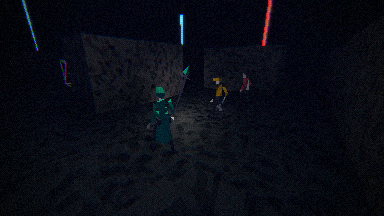
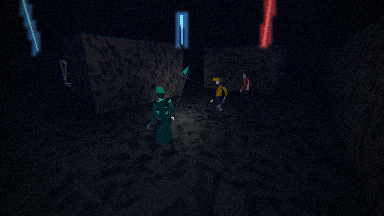
perf(render): custo das camadas A+B de 1,87× para ~1,3× do preset sem camadas
- bloom: máscara emissiva dilatada em 1/4 da resolução interna (16 amostras por texel
  a 1/16 dos fragmentos) e uma leitura com filtro linear no pós
- sombra da lanterna: shadow map redesenhado a render.anim_fps (autoUpdate = false),
  personagens só projetam dentro do frustum da sombra (layer_b.caster_radius), leitura
  com textureLod e só dentro do cone
- Ps1Material: normal de face só no caminho por fragmento (uGouraud < 1)
- compare.mjs: teto de custo render.layer_cost_factor (tempo de CPU do processo de GPU,
  mediana de pares, medium 1280×720); hook bench(view, frames) e capture com hidden
- comentário do schema aponta para render-layers.test.ts

Claude-Session: https://claude.ai/code/session_01RHvzBkpAz1qJUMgUKvPxkx

Changed region(s): [[0.0312, 0.0, 0.125, 0.2778], [0.6562, 0.0, 0.7188, 0.2222], [0.4375, 0.0278, 0.5, 0.2222]]

diff --git a/packages/client/src/render/scene.ts b/packages/client/src/render/scene.ts
@@ -7,7 +7,7 @@ import { balance, cfg, map, px } from "../data.ts";
 import { WORLD_COLORS } from "../look.ts";
 import { createHunterModel, createSurvivorModel } from "./characters/actors.ts";
 import { charactersReady } from "./characters/runtime.ts";
-import { aimLantern, bakeVertexLight, createAmbience, createLantern, neutralBake, type Ambience } from "./environment.ts";
+import { aimLantern, bakeVertexLight, createAmbience, createLantern, cullShadowCasters, neutralBake, type Ambience } from "./environment.ts";
 import { fxTime, onLayersChange, presetLayers, setGrainSeed, setLayers, tickLayers, type LayerSet } from "./layers.ts";
 import { clientRandom, urlPreset } from "./options.ts";
 import { createPresenter, type Presenter } from "./present.ts";
@@ -29,6 +29,10 @@ export interface RenderCtx {
   ambience: Ambience;
   /** pulso de aberração: sobrevivente seguido, vida dele no quadro anterior e instante do último dano (relógio da simulação) */
   fx: { id: number | null; lastHp: number | null; hitT: number | null };
+  /** personagens que podem projetar a sombra da lanterna (o próprio jogador não) */
+  casters: THREE.Object3D[];
+  /** passo (em 1/render.anim_fps) da última atualização do shadow map; NaN força a próxima */
+  shadowStep: number;
   /** `renderer.info` do último quadro (sombra + cena + passes finais) */
   info: { calls: number; triangles: number };
 }
@@ -71,6 +75,8 @@ export function buildWorld(canvas: HTMLCanvasElement): RenderCtx {
   // camada B: sombra da lanterna em shadow map sem filtro (BasicShadowMap: texel nearest, sombra pixelada)
   R.shadowMap.enabled = true;
   R.shadowMap.type = THREE.BasicShadowMap;
+  // o shadow map é redesenhado a render.anim_fps (12 Hz, o passo PS1 da animação), não a cada quadro
+  R.shadowMap.autoUpdate = false;
   setGrainSeed(Math.floor(clientRandom(GRAIN_SALT)() * 65536));
   const presenter = createPresenter(R, canvas, urlPreset);
   const [iw, ih] = rc.presets[presenter.preset].internal;
@@ -101,7 +107,7 @@ export function buildWorld(canvas: HTMLCanvasElement): RenderCtx {
   S.add(lantern, lantern.target);
   const ambience = createAmbience(clientRandom(AMBIENCE_SALT));
   S.add(ambience.group);
-  const ctx: RenderCtx = { R, S, cam, PL, presenter, lantern, baked, ambience, fx: { id: null, lastHp: null, hitT: null }, info: { calls: 0, triangles: 0 } };
+  const ctx: RenderCtx = { R, S, cam, PL, presenter, lantern, baked, ambience, fx: { id: null, lastHp: null, hitT: null }, casters: [], shadowStep: NaN, info: { calls: 0, triangles: 0 } };
   onLayersChange(l => applyLayers(ctx, l));
   setLayers(presetLayers(presenter.preset));
   return ctx;
@@ -112,6 +118,7 @@ function applyLayers(ctx: RenderCtx, l: LayerSet) {
   ctx.lantern.visible = l.B;
   ps1Uniforms.uBake.value = l.B ? 1 : 0;
   ctx.ambience.group.visible = l.C;
+  ctx.shadowStep = NaN;
 }
 
 /** troca o preset de resolução interna (low/medium/high) */
@@ -143,13 +150,18 @@ export function buildActors(ctx: RenderCtx, G: GameState, _skin: string) {
   // camada B: luz assada com as lâmpadas dos geradores desta partida (o layout muda a posição)
   bakeVertexLight(ctx.baked, G.gens);
   ctx.fx = { id: null, lastHp: null, hitT: null };
-  // personagens projetam e recebem a sombra da lanterna; o próprio jogador não (a lanterna sai do corpo dele)
+  // personagens recebem a sombra da lanterna e projetam quando estão no cone (cullShadowCasters); o próprio
+  // jogador não projeta (a lanterna sai do corpo dele)
   const own = meshes.get("s" + G.survivors[0].id);
+  ctx.casters = [];
+  ctx.shadowStep = NaN;
   void charactersReady().then(() => {
     for (const s of G.survivors.map(v => meshes.get("s" + v.id)).concat(hm)) {
-      if (!s || s === own) continue;
-      s.traverse(o => { if ((o as THREE.Mesh).isMesh) o.castShadow = o.receiveShadow = true; });
+      if (!s) continue;
+      s.traverse(o => { if ((o as THREE.Mesh).isMesh) o.receiveShadow = true; });
+      if (s !== own) ctx.casters.push(s);
     }
+    ctx.shadowStep = NaN;
   });
 }
 
@@ -167,6 +179,13 @@ export function renderFrame(ctx: RenderCtx, G: GameState, view: { yaw: number; p
   cam.rotation.set(pitch - (thirdPerson ? 0.2 : 0), yaw, 0);
   PL.position.set(P.x, rc.lights.player_height, P.z);
   aimLantern(ctx.lantern, cam, P.x, P.z);
+  // camada B: shadow map a render.anim_fps no relógio da simulação, só com os projetores dentro do cone
+  const shadowStep = Math.floor(fxTime(G.t) * rc.anim_fps);
+  if (ctx.lantern.visible && shadowStep !== ctx.shadowStep) {
+    cullShadowCasters(ctx.lantern, ctx.casters);
+    ctx.R.shadowMap.needsUpdate = true;
+    ctx.shadowStep = shadowStep;
+  }
   // camada A: pulso de aberração quando a vida do jogador cai; grão e camada C no relógio da simulação
   // só o dano do mesmo sobrevivente conta: trocar o alvo da câmera (modo espectador) não dispara o pulso
   if (ctx.fx.id === P.id && ctx.fx.lastHp !== null && P.hp < ctx.fx.lastHp) ctx.fx.hitT = G.t;

diff --git a/packages/client/src/render/present.ts b/packages/client/src/render/present.ts
@@ -3,7 +3,7 @@
 // quantização para `render.ps1.color_bits` por canal com intensidade `render.ps1.dither`; um quad final leva o
 // resultado à tela com escala inteira (filtro nearest) e as scanlines.
 // Camada A (GDD-v0.3 §10.2, itens do GDD-v0.2 §10.2), na ordem: aberração cromática (pulso de dano), bloom só nos
-// emissivos (máscara no alfa do alvo; passe próprio em meia resolução interna), LUT fria (textura 3D), vinheta e grão, ANTES da quantização (o dither
+// emissivos (máscara no alfa do alvo, dilatada em 1/4 da resolução interna e lida uma vez), LUT fria (textura 3D), vinheta e grão, ANTES da quantização (o dither
 // absorve o grão). As scanlines ficam no quad final: com escala ≥ 2 escurecem a última linha de tela de cada linha
 // interna (o vão entre linhas de um CRT é menor que um pixel interno); com escala 1, linhas internas alternadas.
 // O pós na resolução interna custa o mesmo em qualquer janela (SwiftShader e GPU integrada).
@@ -20,32 +20,27 @@ varying vec2 vUv;
 void main() { vUv = uv; gl_Position = vec4( position.xy, 0.0, 1.0 ); }
 `;
 
-/** bloom em meia resolução interna (o brilho é suave: 1/4 dos fragmentos do passe de pós) */
+/**
+ * bloom, passo 1: máscara emissiva em 1/4 da resolução interna (1/16 dos fragmentos). Cada texel guarda o máximo
+ * por canal da cor dos pixels emissivos (alfa 0) em 16 amostras de uma janela de 4 + 2·BLOOM_R pixels internos em
+ * volta do seu bloco 4×4: dilata feixes de 1 pixel em vez de diluí-los. O passo 2 lê a máscara uma vez, com
+ * filtro linear, e a interpolação entre texels dá a borda suave
+ */
 const BLOOM_FRAGMENT = /* glsl */ `
 uniform sampler2D tDiffuse;
 uniform vec2 uRes;
 varying vec2 vUv;
-// brilho dos emissivos: média ponderada da cor dos pixels com alfa 0 em 13 amostras (centro e dois anéis de 6,
-// a meio raio e no raio BLOOM_R, em pixels internos), peso caindo com a distância. 13 amostras em vez do disco
-// cheio: o custo cabe no SwiftShader da CI e em GPU integrada
-vec3 bloom() {
-  vec4 c0 = texture2D( tDiffuse, vUv );
-  vec3 sum = c0.rgb * ( 1.0 - c0.a );
-  float wsum = 1.0;
-  for ( int ring = 1; ring <= 2; ring ++ ) {
-    float r = float( BLOOM_R ) * float( ring ) * 0.5;
-    float w = 1.0 - r / ( float( BLOOM_R ) + 1.0 );
-    for ( int k = 0; k < 6; k ++ ) {
-      // anéis girados meio passo um do outro (ângulos de 60° em 60°)
-      float a = ( float( k ) + 0.5 * float( ring - 1 ) ) * 1.04719755;
-      vec4 c = texture2D( tDiffuse, vUv + vec2( cos( a ), sin( a ) ) * r / uRes );
-      sum += c.rgb * ( 1.0 - c.a ) * w;
-      wsum += w;
-    }
+void main() {
+  vec2 base = floor( vUv * uRes / 4.0 ) * 4.0 + 2.0;   // centro do bloco 4×4 em pixels internos
+  float step = ( 4.0 + 2.0 * float( BLOOM_R ) ) / 4.0;
+  vec3 m = vec3( 0.0 );
+  for ( int y = 0; y < 4; y ++ ) for ( int x = 0; x < 4; x ++ ) {
+    vec2 o = ( vec2( x, y ) - 1.5 ) * step;
+    vec4 c = texture2D( tDiffuse, ( floor( base + o ) + 0.5 ) / uRes );
+    m = max( m, c.rgb * ( 1.0 - c.a ) );
   }
-  return sum / wsum;
+  gl_FragColor = vec4( m, 1.0 );
 }
-void main() { gl_FragColor = vec4( bloom(), 1.0 ); }
 `;
 
 const POST_FRAGMENT = /* glsl */ `
@@ -81,6 +76,7 @@ void main() {
     c.r = texture2D( tDiffuse, vUv + off ).r;
     c.b = texture2D( tDiffuse, vUv - off ).b;
   }
+  // bloom, passo 2: uma leitura com filtro linear da máscara dilatada em 1/4
   if ( uBloom > 0.0 ) c.rgb += texture2D( tBloom, vUv ).rgb * uBloom * uBloomAmount;
   if ( uLut > 0.0 ) {
     vec3 l = texture( tLut, clamp( c.rgb, 0.0, 1.0 ) * ( ( uLutSize - 1.0 ) / uLutSize ) + 0.5 / uLutSize ).rgb;
@@ -166,7 +162,7 @@ export function createPresenter(R: THREE.WebGLRenderer, canvas: HTMLCanvasElemen
       self.preset = name;
       target.setSize(w, h);
       postTarget.setSize(w, h);
-      bloomTarget.setSize(Math.ceil(w / 2), Math.ceil(h / 2));
+      bloomTarget.setSize(Math.ceil(w / 4), Math.ceil(h / 4));
       ps1Uniforms.uRes.value.set(w, h);
       lastKey = "";
     },

diff --git a/packages/client/src/render/debug.ts b/packages/client/src/render/debug.ts
@@ -1,11 +1,12 @@
 // Gancho de depuração da render para as capturas de referência (tools/visual/compare.mjs) e para medir
 // `renderer.info` (GDD-v0.3 §10.6). Só lê o estado; não altera a simulação.
 import type { GameState } from "@thehell/sim";
+import type * as THREE from "three";
 import { balance } from "../data.ts";
 import type { PresetName } from "./present.ts";
 import { getLayerA, getLayers, getReduceFlicker, setLayerA, setLayers, setOverrides, setReduceFlicker, type LayerAIntensity, type LayerSet } from "./layers.ts";
 import { getPs1, setPs1, type Ps1Intensity } from "./ps1.ts";
-import { renderFrame, setPreset, type RenderCtx } from "./scene.ts";
+import { meshes, renderFrame, setPreset, type RenderCtx } from "./scene.ts";
 import { syncActors, syncDynamic } from "./sync.ts";
 
 export interface RenderHook {
@@ -29,8 +30,17 @@ export interface RenderHook {
    * sincroniza as malhas com o estado atual, desenha um quadro com a vista dada e devolve os pixels da tela (RGBA, linhas de cima para baixo) em base64,
    * lidos no mesmo quadro (sem preserveDrawingBuffer)
    */
-  capture(view: { yaw: number; pitch: number; thirdPerson: boolean }): { width: number; height: number; rgba: string };
+  capture(view: View, opts?: CaptureOpts): { width: number; height: number; rgba: string };
+  /**
+   * desenha `frames` quadros com a vista dada, sincronizando a GPU a cada um (readPixels de 1 pixel), para medir o
+   * custo de render de forma síncrona (tools/visual/compare.mjs mede o tempo de fora da página)
+   */
+  bench(view: View, frames: number): void;
 }
+
+type View = { yaw: number; pitch: number; thirdPerson: boolean };
+/** malhas escondidas na captura, por chave de `meshes` (hunter, beam<i>, s<id>…): legibilidade por diferença */
+export interface CaptureOpts { hidden?: string[] }
 
 export function installRenderHook(getCtx: () => RenderCtx | undefined, getGame: () => GameState | undefined) {
   const need = () => {
@@ -48,10 +58,15 @@ export function installRenderHook(getCtx: () => RenderCtx | undefined, getGame: 
       const internal = balance.render.presets[ctx.presenter.preset].internal as [number, number];
       return { ...ctx.info, preset: ctx.presenter.preset, scale: ctx.presenter.scale, internal, layers: getLayers() };
     },
-    capture: view => {
+    capture: (view, opts = {}) => {
       const { ctx, G } = need();
       syncActors(G, view.thirdPerson);
+      const hidden = (opts.hidden ?? []).map(k => meshes.get(k)).filter((m): m is THREE.Object3D => !!m && m.visible);
+      for (const m of hidden) m.visible = false;
+      // a captura independe do histórico: o shadow map é redesenhado para esta vista
+      ctx.shadowStep = NaN;
       renderFrame(ctx, G, view);
+      for (const m of hidden) m.visible = true;
       syncDynamic(ctx, G);
       const gl = ctx.R.getContext();
       const width = gl.drawingBufferWidth, height = gl.drawingBufferHeight;
@@ -62,6 +77,18 @@ export function installRenderHook(getCtx: () => RenderCtx | undefined, getGame: 
       let bin = "";
       for (let i = 0; i < flipped.length; i += 0x8000) bin += String.fromCharCode(...flipped.subarray(i, i + 0x8000));
       return { width, height, rgba: btoa(bin) };
+    },
+    bench: (view, frames) => {
+      const { ctx, G } = need();
+      syncActors(G, view.thirdPerson);
+      const gl = ctx.R.getContext(), px = new Uint8Array(4);
+      // relógio parado: o shadow map é redesenhado como num jogo a render.budgets.fps, a render.anim_fps
+      const { fps } = balance.render.budgets, hz = balance.render.anim_fps;
+      for (let i = 0; i < frames; i++) {
+        if (Math.floor((i * hz) / fps) !== Math.floor(((i - 1) * hz) / fps)) ctx.shadowStep = NaN;
+        renderFrame(ctx, G, view);
+        gl.readPixels(0, 0, 1, 1, gl.RGBA, gl.UNSIGNED_BYTE, px);
+      }
     },
   };
   (window as unknown as { __thehellRender: RenderHook }).__thehellRender = hook;

diff --git a/packages/client/src/render/ps1.ts b/packages/client/src/render/ps1.ts
@@ -178,6 +178,26 @@ const FRAGMENT = /* glsl */ `
 #ifdef PS1_LIT
 #include <lights_pars_begin>
 #include <shadowmap_pars_fragment>
+#if defined( USE_SHADOWMAP ) && NUM_SPOT_LIGHT_SHADOWS > 0
+// sombra da lanterna: o mesmo teste do getShadow BASIC do three.js, com textureLod (sem cálculo de LOD, que pesa no
+// SwiftShader dentro de desvio) e sem o filtro, que o BASIC não usa
+float ps1Shadow( vec4 coord ) {
+  coord.xyz /= coord.w;
+  #ifdef USE_REVERSED_DEPTH_BUFFER
+  coord.z -= spotLightShadows[ 0 ].shadowBias;
+  #else
+  coord.z += spotLightShadows[ 0 ].shadowBias;
+  #endif
+  if ( coord.x < 0.0 || coord.x > 1.0 || coord.y < 0.0 || coord.y > 1.0 || coord.z > 1.0 ) return 1.0;
+  float depth = textureLod( spotShadowMap[ 0 ], coord.xy, 0.0 ).r;
+  #ifdef USE_REVERSED_DEPTH_BUFFER
+  float lit = step( depth, coord.z );
+  #else
+  float lit = step( coord.z, depth );
+  #endif
+  return mix( 1.0, lit, spotLightShadows[ 0 ].shadowIntensity );
+}
+#endif
 #endif
 #include <fog_pars_fragment>
 ${SHARED_GLSL}
@@ -193,16 +213,13 @@ void main() {
 #endif
   vec3 outgoing = diffuseColor.rgb;
 #ifdef PS1_LIT
-  // normal da face (flatShading do three.js) para a iluminação por fragmento
-  vec3 fdx = dFdx( vViewPosition );
-  vec3 fdy = dFdy( vViewPosition );
-  vec3 faceNormal = normalize( cross( fdx, fdy ) );
   vec3 perVertex = vLight;
   #if NUM_SPOT_LIGHTS > 0
   // sombra da lanterna: shadow map de render.shadow_map px, filtro nearest (pixelado), por fragmento
   float shadow = 1.0;
   #if defined( USE_SHADOWMAP ) && NUM_SPOT_LIGHT_SHADOWS > 0
-  if ( receiveShadow ) shadow = getShadow( spotShadowMap[ 0 ], spotLightShadows[ 0 ].shadowMapSize, spotLightShadows[ 0 ].shadowIntensity, spotLightShadows[ 0 ].shadowBias, spotLightShadows[ 0 ].shadowRadius, vSpotLightCoord[ 0 ] );
+  // fora do cone (vSpot = 0 nos três vértices) não há o que sombrear: pula a leitura do shadow map
+  if ( receiveShadow && vSpot.r + vSpot.g + vSpot.b > 0.0 ) shadow = ps1Shadow( vSpotLightCoord[ 0 ] );
   #endif
   perVertex += vSpot * shadow;
   #endif
@@ -210,6 +227,8 @@ void main() {
   // laço de luzes por fragmento não roda (uniforme: o desvio é o mesmo para todos os fragmentos)
   vec3 perFragment = perVertex;
   if ( uGouraud < 1.0 ) {
+    // normal da face (flatShading do three.js); derivadas em desvio uniforme
+    vec3 faceNormal = normalize( cross( dFdx( vViewPosition ), dFdy( vViewPosition ) ) );
     perFragment = ps1Irradiance( - vViewPosition, faceNormal, vBakeAo, vBakeLight );
     #if NUM_SPOT_LIGHTS > 0
     perFragment += ps1Spot( - vViewPosition, faceNormal ) * shadow;

diff --git a/packages/shared/src/schema.ts b/packages/shared/src/schema.ts
@@ -37,7 +37,7 @@ const MapsSchema = z.object({
 
 const unit = num.min(0).max(1);
 const preset = z.object({ internal: z.tuple([z.number().int().positive(), z.number().int().positive()]), layers: z.array(z.enum(["A", "B", "C"])), shadows: z.boolean() }).strict();
-/** nome de token de data/art/palette.json (a existência é conferida em packages/shared/test/render-data.test.ts) */
+/** nome de token de data/art/palette.json (a existência é conferida em packages/shared/test/render-layers.test.ts) */
 const token = z.string().regex(/^[a-z_]+\.[a-z_]+$/);
 const minMax = z.tuple([z.number().int().positive(), z.number().int().positive()]);
 
@@ -71,6 +71,7 @@ const render = z.object({
       color: token, intensity: pos, distance: pos.positive(), decay: pos, angle_deg: num.positive().max(89), penumbra: unit,
       height: pos, forward: pos, side: num, shadow_bias: num,
     }).strict(),
+    caster_radius: pos.positive(),
     bake: z.object({ ao_min: unit, ao_radius: pos.positive(), light_color: token, light_intensity: pos, light_radius: pos.positive(), light_height: pos }).strict(),
   }).strict(),
   layer_c: z.object({
@@ -79,6 +80,7 @@ const render = z.object({
     }).strict(),
     dust: z.object({ count: z.number().int().nonnegative(), box: pos.positive(), size_px: pos.positive(), opacity: unit, ambient: unit, color: token, fall: pos, sway: pos }).strict(),
   }).strict(),
+  layer_cost_factor: num.min(1),
   budgets: z.object({ fps: pos, draw_calls: z.number().int().positive(), triangles: z.number().int().positive(), initial_download_mb: pos, map_download_mb: pos, time_to_play_s: pos }).strict(),
   models: z.object({ survivor_tris: minMax, hunter_tris: minMax, atlas: z.number().int().positive() }).strict(),
 }).strict();

diff --git a/packages/client/src/render/environment.ts b/packages/client/src/render/environment.ts
@@ -247,3 +247,21 @@ export function createAmbience(rand: () => number): Ambience {
     },
   };
 }
+
+const sphere = new THREE.Sphere(), center = new THREE.Vector3();
+/**
+ * personagens projetam a sombra da lanterna só quando a esfera que os envolve (`layer_b.caster_radius`, centrada
+ * a essa altura) cruza o frustum da sombra. Os muros o three.js já recorta; os personagens têm
+ * frustumCulled = false (pose T, runtime.ts) e sem este recorte entram todos no passe de sombra
+ */
+export function cullShadowCasters(s: THREE.SpotLight, roots: readonly THREE.Object3D[]) {
+  s.shadow.updateMatrices(s);
+  const fr = s.shadow.getFrustum();
+  for (const r of roots) {
+    r.getWorldPosition(center);
+    center.y += lb.caster_radius;
+    sphere.set(center, lb.caster_radius);
+    const on = r.visible && fr.intersectsSphere(sphere);
+    r.traverse(o => { if ((o as THREE.Mesh).isMesh) o.castShadow = on; });
+  }
+}
